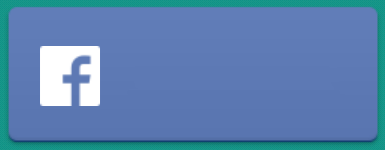
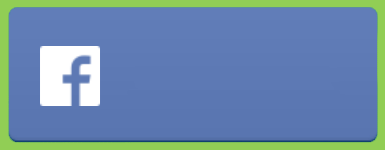
Nýjir litir

Changed region(s): [[0.0, 0.0, 1.0, 1.0]]

diff --git a/Corners/core/src/Screens/Levels.java b/Corners/core/src/Screens/Levels.java
@@ -15,6 +15,7 @@ import com.badlogic.gdx.InputProcessor;
 import com.badlogic.gdx.Screen;
 import com.badlogic.gdx.graphics.GL20;
 import com.badlogic.gdx.graphics.Texture;
+import com.badlogic.gdx.graphics.g2d.SpriteBatch;
 import com.badlogic.gdx.scenes.scene2d.InputEvent;
 import com.badlogic.gdx.scenes.scene2d.Stage;
 import com.badlogic.gdx.scenes.scene2d.ui.Image;
@@ -32,9 +33,10 @@ public class Levels implements Screen{
 	private Stage stage;
 	private Table container;
 	private Category cat;
-	private InputProcessor inputProcessor; 
+	private InputProcessor inputProcessor;
 	private InfoBar infoBar;
 	public int[] stars;
+	private SpriteBatch batch;
 	
 	/**
 	 * Constructor that sets the private variable and starts the screen.
@@ -58,6 +60,7 @@ public class Levels implements Screen{
 	 */
 	public void create(){
 		stage = new Stage();
+		this.batch = new SpriteBatch();
 		skin = main.skin;
 
 		container = new Table();
@@ -96,6 +99,11 @@ public class Levels implements Screen{
 	@Override
 	public void render(float delta) {
 		Gdx.gl.glClear(GL20.GL_COLOR_BUFFER_BIT);
+		
+		batch.begin();
+        batch.draw(main.background, 0, 0, main.scrWidth, main.scrHeight);
+        batch.end();
+        
 		stage.act(Math.min(Gdx.graphics.getDeltaTime(), 1 / 30f));
 		stage.draw();		
 	}

diff --git a/Corners/core/src/com/corners/game/MainActivity.java b/Corners/core/src/com/corners/game/MainActivity.java
@@ -46,6 +46,7 @@ public class MainActivity extends Game {
 	
 	public Texture fullStar;
 	public Texture emptyStar;
+	public Texture background;
 	public Friends friends;
 	public FacebookUser user;
 	
@@ -81,6 +82,7 @@ public class MainActivity extends Game {
 		this.cat = new Category();
 		this.data = new DataHelper();
 		this.character = new Character(this);
+		this.background = new Texture("background/grass.png");
 		settingsVolume = data.isSoundOn();
 		updateVolume();
 		facebookService.showFacebookUser();

diff --git a/Corners/core/src/screens/Start.java b/Corners/core/src/screens/Start.java
@@ -113,10 +113,11 @@ public class Start implements Screen{
 	 */
 	@Override
 	public void render(float delta) {	
-		Gdx.gl.glClearColor(21/255f, 149/255f, 136/255f, 1);
+		//Gdx.gl.glClearColor(21/255f, 149/255f, 136/255f, 1);
 		Gdx.gl.glClear(GL20.GL_COLOR_BUFFER_BIT);	
 		
 		batch.begin();
+		batch.draw(main.background, 0, 0, main.scrWidth, main.scrHeight);
 		batch.draw(carl, main.scrWidth*0.25f, main.scrHeight*0.6f, main.scrWidth*0.5f, main.scrWidth*0.5f);	
 		batch.end();
 		

diff --git a/Corners/core/src/screens/InfoBar.java b/Corners/core/src/screens/InfoBar.java
@@ -51,7 +51,8 @@ public class InfoBar {
 	public Table getInfoBar(){
 		Table infoBarTable = new Table(main.skin);
 		Pixmap pm = new Pixmap(1, 1, Format.RGBA8888);
-	 	pm.setColor(new Color(20/255f, 120/255f, 113/255f, 1));
+	 	//pm.setColor(new Color(20/255f, 120/255f, 113/255f, 1));
+	 	pm.setColor(new Color(118/255f, 185/255f, 52/255f, 1));
 	 	pm.fillRectangle(0,0,1,1);
 	 	infoBarTable.setBackground(new TextureRegionDrawable(new TextureRegion(new Texture(pm))));
 	 	

diff --git a/Corners/core/src/screens/Friends.java b/Corners/core/src/screens/Friends.java
@@ -232,6 +232,11 @@ public class Friends implements Screen{
 	public void render(float delta) {
 		Gdx.gl.glClearColor(21/255f, 149/255f, 136/255f, 1);
 		Gdx.gl.glClear(GL20.GL_COLOR_BUFFER_BIT);
+		
+		batch.begin();
+        batch.draw(main.background, 0, 0, main.scrWidth, main.scrHeight);
+		batch.end();
+        
 		stage.act(Math.min(Gdx.graphics.getDeltaTime(), 1 / 30f));
 		stage.draw();
 	}

diff --git a/Corners/core/src/screens/Settings.java b/Corners/core/src/screens/Settings.java
@@ -114,6 +114,10 @@ public class Settings implements Screen{
 		Gdx.gl.glClearColor(21/255f, 149/255f, 136/255f, 1);
 		Gdx.gl.glClear(GL20.GL_COLOR_BUFFER_BIT);
 		
+		batch.begin();
+        batch.draw(main.background, 0, 0, main.scrWidth, main.scrHeight);
+		batch.end();
+		
 		stage.act(Math.min(Gdx.graphics.getDeltaTime(), 1 / 30f));
 		stage.draw();
 	}

diff --git a/Corners/core/src/Screens/Categories.java b/Corners/core/src/Screens/Categories.java
@@ -135,6 +135,7 @@ public class Categories implements Screen {
         Gdx.gl.glClear(GL20.GL_COLOR_BUFFER_BIT);
         
         batch.begin();
+        batch.draw(main.background, 0, 0, main.scrWidth, main.scrHeight);
 		batch.draw(carl, main.scrWidth*0.25f, main.scrHeight*0.6f, main.scrWidth*0.5f, main.scrWidth*0.5f);	
         batch.end();
 		

diff --git a/Corners/core/src/screens/Play.java b/Corners/core/src/screens/Play.java
@@ -782,6 +782,7 @@ public class Play implements Screen, InputProcessor{
 		// draw question and answers
 		batch.setProjectionMatrix(camera.combined);
 		batch.begin();
+		batch.draw(main.background, 0, 0, main.scrWidth, main.scrHeight);
 		for(Box answer : cat.getAnswers()){
 			answer.draw(batch);
 		}

diff --git a/Corners/core/src/Screens/Character.java b/Corners/core/src/Screens/Character.java
@@ -36,7 +36,7 @@ public class Character {
 		
 		imgs = new Texture[levelsSplit.length];
 		for(int i=0; i<levelsSplit.length; i++) {
-			imgs[i] = new Texture("carl/carl"+i+".jpg");
+			imgs[i] = new Texture("carl/piggy"+i+".png");
 		}
 	}
 	
